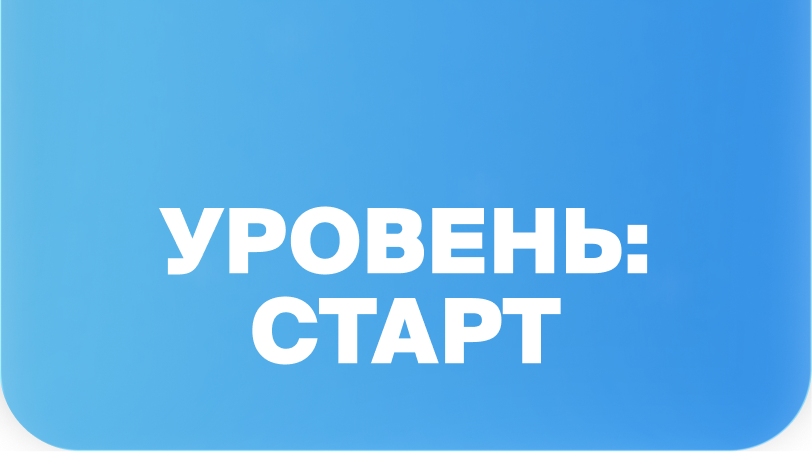
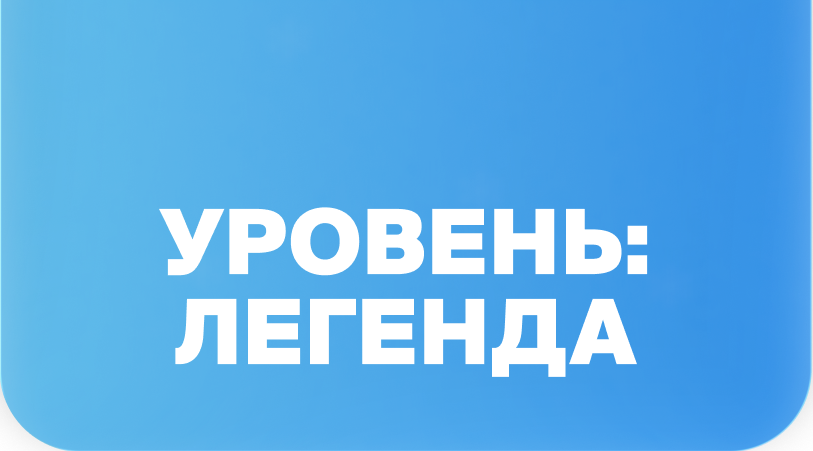
Use 1000-bonus game versions and align screen 2 cards

diff --git a/games/catcher/index.html b/games/catcher/index.html
@@ -7,7 +7,7 @@
     <meta name="apple-mobile-web-app-status-bar-style" content="black-translucent">
     <meta name="mobile-web-app-capable" content="yes">
     <meta name="theme-color" content="#7bb5e8">
-    <title>Новогодняя Игра — Мешок Деда Мороза (LB Bonus)</title>
+    <title>Новогодняя Игра — Мешок Деда Мороза (Уровень: Легенда)</title>
     <!-- Telegram WebApp SDK -->
     <script src="https://telegram.org/js/telegram-web-app.js"></script>
     <script>
@@ -46,9 +46,9 @@
             window.addEventListener('load', updateAppHeight);
         })();
     </script>
-    <link rel="stylesheet" href="style.css?v=5.1.0">
+    <link rel="stylesheet" href="style.css?v=5.2.0">
     <link rel="preload" as="image" href="assets/header_rules.png?v=5.1.0">
-    <link rel="preload" as="image" href="assets/header_result.png?v=5.1.0">
+    <link rel="preload" as="image" href="assets/header_result.png?v=5.2.0">
     <link rel="preload" as="image" href="assets/header_exit.png?v=5.1.0">
     <link rel="preconnect" href="https://fonts.googleapis.com" crossorigin>
     <link rel="preconnect" href="https://fonts.gstatic.com" crossorigin>
@@ -75,7 +75,7 @@
 
         <!-- HUD (Игровой интерфейс 1:1 по макету 04-game.png) -->
         <div id="hud" class="hud-container hidden">
-            <!-- Верхняя строка: Жизни (3 сердца) слева, Баллы (LB 0/750) справа -->
+            <!-- Верхняя строка: Жизни (3 сердца) слева, Баллы (LB 0/1000) справа -->
             <div class="hud-top-row">
                 <div id="hudHearts" class="hud-hearts-box">
                     <img src="assets/heart.webp" class="hud-heart active" id="heart1" alt="Жизнь 1">
@@ -84,7 +84,7 @@
                 </div>
                 <div class="hud-score-badge">
                     <img src="assets/coin_lb.webp" class="hud-score-coin-icon" alt="LB Монета">
-                    <span id="hudScoreText" class="hud-score-text">0/750</span>
+                    <span id="hudScoreText" class="hud-score-text">0/1000</span>
                 </div>
             </div>
 
@@ -120,8 +120,8 @@
                 <img src="assets/cover_plate.webp" class="cover-plate-bg" alt="Снежная плашка">
                 <div class="cover-plate-content">
                     <div class="cover-text-group">
-                        <img src="assets/cover_title_v2.png?v=5.0.0" class="cover-title-img" alt="Выигрывайте до 750 БОНУСОВ!">
-                        <img src="assets/cover_subtitle_v2.png?v=5.0.0" class="cover-subtitle-img" alt="Ловите блюда и получите шанс пополнить карту LB Бонус">
+                        <img src="assets/cover_title_v2.png?v=5.2.0" class="cover-title-img" alt="Выигрывайте до 1000 БОНУСОВ!">
+                        <img src="assets/cover_subtitle_v2.png?v=5.2.0" class="cover-subtitle-img" alt="Собирайте новогодние сеты и получите шанс пополнить карту LB Бонус">
                     </div>
                     <button id="playBtn" class="cover-play-btn" type="button" aria-label="ИГРАТЬ">
                         <img src="assets/cover_btn_play.webp" class="cover-btn-play-img" alt="ИГРАТЬ">
@@ -172,11 +172,11 @@
             </div>
         </div>
 
-        <!-- SCREEN 4: Экран результатов (УРОВЕНЬ: ЧЕМПИОН) -->
+        <!-- SCREEN 4: Экран результатов (УРОВЕНЬ: ЛЕГЕНДА) -->
         <div id="resultScreen" class="result-screen-container hidden">
-            <!-- Верхняя лента "УРОВЕНЬ: ЧЕМПИОН" -->
+            <!-- Верхняя лента "УРОВЕНЬ: ЛЕГЕНДА" -->
             <div class="result-top-box">
-                <img src="assets/header_result.png?v=5.1.0" class="result-ribbon-banner" alt="Уровень: Чемпион">
+                <img src="assets/header_result.png?v=5.2.0" class="result-ribbon-banner" alt="Уровень: Легенда">
             </div>
 
             <!-- Центральная плашка с блюдами и динамическими баллами -->
@@ -241,6 +241,6 @@
         </div>
     </div>
 
-    <script src="game.js?v=5.1.0"></script>
+    <script src="game.js?v=5.2.0"></script>
 </body>
 </html>

diff --git a/games/runner/index.html b/games/runner/index.html
@@ -8,7 +8,7 @@
     <meta name="mobile-web-app-capable" content="yes">
     <meta name="theme-color" content="#7bb5e8">
     <title>Новогодняя Игра — Полет Деда Мороза на воке</title>
-    <link rel="stylesheet" href="style.css?v=5.1.0">
+    <link rel="stylesheet" href="style.css?v=5.3.0">
     <!-- Non-blocking high performance font loading (instant page load on mobile) -->
     <link rel="preconnect" href="https://fonts.googleapis.com" crossorigin>
     <link rel="preconnect" href="https://fonts.gstatic.com" crossorigin>
@@ -47,7 +47,7 @@
                     <img src="assets/heart.webp" class="hud-heart active" alt="Жизнь 2">
                     <img src="assets/heart.webp" class="hud-heart active" alt="Жизнь 3">
                 </div>
-                <div id="scoreBadge" class="hud-score-badge">БАЛЛЫ: 0 / 300</div>
+                <div id="scoreBadge" class="hud-score-badge">БАЛЛЫ: 0 / 1000</div>
             </div>
 
             <!-- Full-width Progress Bar with Sliding Santa -->
@@ -72,8 +72,8 @@
                 <img src="assets/cover_plate.webp" class="cover-plate-bg" alt="Плашка">
                 <div class="cover-plate-content">
                     <div class="cover-text-group">
-                        <img src="assets/cover_title_v2.png?v=5.0.0" class="cover-title-img" alt="Выигрывайте до 300 БОНУСОВ!">
-                        <img src="assets/cover_subtitle_v2.png?v=5.0.0" class="cover-subtitle-img" alt="Ловите блюда, облетайте препятствия и получите шанс пополнить карту LB Бонус">
+                        <img src="assets/cover_title_v2.png?v=5.0.0" class="cover-title-img" alt="Выигрывайте до 1000 БОНУСОВ!">
+                        <img src="assets/cover_subtitle_v2.png?v=5.0.0" class="cover-subtitle-img" alt="Собирайте новогодние сеты и получите шанс пополнить карту LB Бонус">
                     </div>
                     <button id="playBtn" class="cover-play-btn" type="button" aria-label="ИГРАТЬ">
                         <img src="assets/cover_btn_play.webp?v=3.4.0" class="cover-play-btn-img" alt="ИГРАТЬ">
@@ -85,7 +85,7 @@
         <div id="rulesScreen" class="rules-screen-container hidden">
             <!-- 1. Top Ribbon Banner -->
             <div class="rules-top-box">
-                <img src="assets/header_rules.png?v=5.0.0" class="rules-ribbon-banner" alt="Пробный полёт">
+                <img src="assets/header_rules.png?v=5.0.0" class="rules-ribbon-banner" alt="Полёт на воке">
             </div>
 
             <!-- 2. Central Card Slider & Pagination Dots -->
@@ -144,9 +144,9 @@
             <!-- Зимняя ель слева (Figma 1:1) -->
             <img src="assets/rules_fir_tree.webp" class="rules-fir-tree" alt="Елка">
 
-            <!-- Верхняя лента "УРОВЕНЬ: СТАРТ" -->
+            <!-- Верхняя лента "УРОВЕНЬ: ЛЕГЕНДА" -->
             <div class="result-top-box">
-                <img src="assets/header_result.png?v=5.0.0" class="result-ribbon-banner" alt="Уровень: Старт">
+                <img src="assets/header_result.png?v=5.4.0" class="result-ribbon-banner" alt="Уровень: Легенда">
             </div>
 
             <!-- Центральная плашка с блюдами и динамическими баллами -->
@@ -210,6 +210,6 @@
     </div>
 
     <!-- Scripts -->
-    <script src="game.js?v=5.1.0"></script>
+    <script src="game.js?v=5.3.0"></script>
 </body>
 </html>

diff --git a/games/runner/game.js b/games/runner/game.js
@@ -52,8 +52,8 @@ const GAME_CONFIG = {
     thrust: -0.65,          // Continuous lift while holding
     tapImpulse: -5.8,       // Agile jump impulse per tap
     maxSpeedY: 8.0,
-    baseScrollSpeed: 4.85,  // Exact initial speed matching LB_Game_18_12_2 (speedScroll=9 @ 60fps = 0.75 screen/s)
-    targetScore: 300
+    baseScrollSpeed: 5.72,  // +18% faster scroll speed for the 500-point version
+    targetScore: 1000
 };
 
 
@@ -1359,7 +1359,7 @@ class Game {
 
 
 
-            scoreBadge.textContent = `БАЛЛЫ: ${this.score} / 300`;
+            scoreBadge.textContent = `БАЛЛЫ: ${this.score} / ${this.targetScore}`;
 
 
 
@@ -1744,11 +1744,11 @@ class Game {
 
 
 
-        // Dynamic speed & obstacle progression (increases with score 0 -> 300)
+        // Dynamic speed & obstacle progression (increases with score 0 -> 500)
 
         const progressRatio = Math.min(1.0, this.score / this.targetScore);
 
-        const currentSpeed = GAME_CONFIG.baseScrollSpeed + progressRatio * 1.8;
+        const currentSpeed = GAME_CONFIG.baseScrollSpeed + progressRatio * 2.1;
 
 
 
@@ -2404,14 +2404,14 @@ class Game {
 
 
         const trackFoods = [
-            { type: 'dango', width: 100, height: 94, points: 15 },
-            { type: 'dimsumFlower', width: 100, height: 95, points: 15 },
-            { type: 'coinLB', width: 90, height: 90, points: 15 },
-            { type: 'pikachu', width: 96, height: 116, points: 15 },
-            { type: 'icecream', width: 95, height: 103, points: 15 },
-            { type: 'ramen', width: 104, height: 99, points: 15 },
-            { type: 'onigiri', width: 106, height: 83, points: 15 },
-            { type: 'bao', width: 100, height: 95, points: 15 }
+            { type: 'dango', width: 100, height: 94, points: 50 },
+            { type: 'dimsumFlower', width: 100, height: 95, points: 50 },
+            { type: 'coinLB', width: 90, height: 90, points: 50 },
+            { type: 'pikachu', width: 96, height: 116, points: 50 },
+            { type: 'icecream', width: 95, height: 103, points: 50 },
+            { type: 'ramen', width: 104, height: 99, points: 50 },
+            { type: 'onigiri', width: 106, height: 83, points: 50 },
+            { type: 'bao', width: 100, height: 95, points: 50 }
         ];
 
 
@@ -2561,8 +2561,8 @@ class Game {
 
 
     collectItem(col) {
-        // Фиксированно +15 баллов за каждый пойманный элемент, максимум 300 баллов
-        const pts = 15;
+        // Фиксированно +50 баллов за каждый пойманный элемент, максимум 1000 баллов
+        const pts = 50;
         this.score = Math.min(this.targetScore, this.score + pts);
 
         const textColor = col.type === 'pikachu' ? '#ffe600' : '#ffd166';

diff --git a/games/catcher/game.js b/games/catcher/game.js
@@ -244,7 +244,7 @@
             this.score = 0;
             this.foodCount = 0;
             this.maxFood = 30;
-            this.maxScore = 750;
+            this.maxScore = 1000;
             this.attemptsRemaining = 3; // 1 сердце = 1 попытка (от 3 до 1)
 
             this.pepperBonusActive = false;
@@ -584,12 +584,12 @@
                 this.itemsSinceLastIcicle = 0;
                 this.nextIcicleThreshold = 3 + Math.floor(Math.random() * 3); // 3, 4 или 5 предметов (на 15% чаще)
             } else if (isSanta) {
-                // Редкий падающий Дед Мороз (+50% баллов = 60 вместо 40)
+                // Редкий падающий Дед Мороз (+50% баллов = 75 вместо 50)
                 type = 'bonus';
                 subType = 'santa';
                 width = 86;
                 height = 56;
-                scoreVal = 60;
+                scoreVal = 75;
                 this.santaSpawnsCount++;
             } else {
                 // Шанс на бонус перчик x2 (около 7%)
@@ -601,16 +601,16 @@
                     height = 54;
                 } else {
                     type = 'food';
-                    // Крупные, сочные блюда по референсу (1 пойманное блюдо = 40 баллов)
+                    // Крупные, сочные блюда по референсу (1 пойманное блюдо = 50 баллов)
                     const foodTypes = [
-                        { key: 'ramen', w: 74, h: 74, score: 40 },
-                        { key: 'dango', w: 80, h: 65, score: 40 },
-                        { key: 'dimsum', w: 75, h: 67, score: 40 },
-                        { key: 'dimsum_flower', w: 76, h: 68, score: 40 },
-                        { key: 'salmon', w: 72, h: 64, score: 40 },
-                        { key: 'icecream', w: 64, h: 72, score: 40 },
-                        { key: 'bao', w: 76, h: 62, score: 40 },
-                        { key: 'onigiri', w: 74, h: 66, score: 40 }
+                        { key: 'ramen', w: 74, h: 74, score: 50 },
+                        { key: 'dango', w: 80, h: 65, score: 50 },
+                        { key: 'dimsum', w: 75, h: 67, score: 50 },
+                        { key: 'dimsum_flower', w: 76, h: 68, score: 50 },
+                        { key: 'salmon', w: 72, h: 64, score: 50 },
+                        { key: 'icecream', w: 64, h: 72, score: 50 },
+                        { key: 'bao', w: 76, h: 62, score: 50 },
+                        { key: 'onigiri', w: 74, h: 66, score: 50 }
                     ];
                     const chosen = foodTypes[Math.floor(Math.random() * foodTypes.length)];
                     subType = chosen.key;

diff --git a/style.css b/style.css
@@ -468,31 +468,31 @@ body {
 }
 
 .char-runner {
-    left: -2.5%;
-    top: -8%;
-    height: 105%;
+    left: 4%;
+    top: 5%;
+    height: 88%;
     width: auto;
 }
 
 .char-catcher {
-    left: -3%;
-    top: -1%;
-    height: 97%;
+    left: 3%;
+    top: 10%;
+    height: 80%;
     width: auto;
 }
 
 .char-match3 {
-    left: 2%;
-    top: -6%;
-    height: 104%;
+    left: 5.5%;
+    top: 7%;
+    height: 86%;
     width: auto;
 }
 
 .game-card-play-btn {
     position: absolute;
-    right: 4.5%;
-    bottom: 10%;
-    width: 52%;
+    left: 33.5%;
+    bottom: 1%;
+    width: 68.4%;
     background: transparent;
     border: none;
     padding: 0;

diff --git a/index.html b/index.html
@@ -8,7 +8,7 @@
     <meta name="mobile-web-app-capable" content="yes">
     <meta name="theme-color" content="#7bb5e8">
     <title>Новогодняя Игра — LB Бонус</title>
-    <link rel="stylesheet" href="style.css?v=1.0.0">
+    <link rel="stylesheet" href="style.css?v=1.0.1">
     <link rel="preconnect" href="https://fonts.googleapis.com" crossorigin>
     <link rel="preconnect" href="https://fonts.gstatic.com" crossorigin>
     <link rel="stylesheet" href="https://fonts.googleapis.com/css2?family=Rubik:wght@500;700;800;900&display=swap" media="print" onload="this.media='all'">
